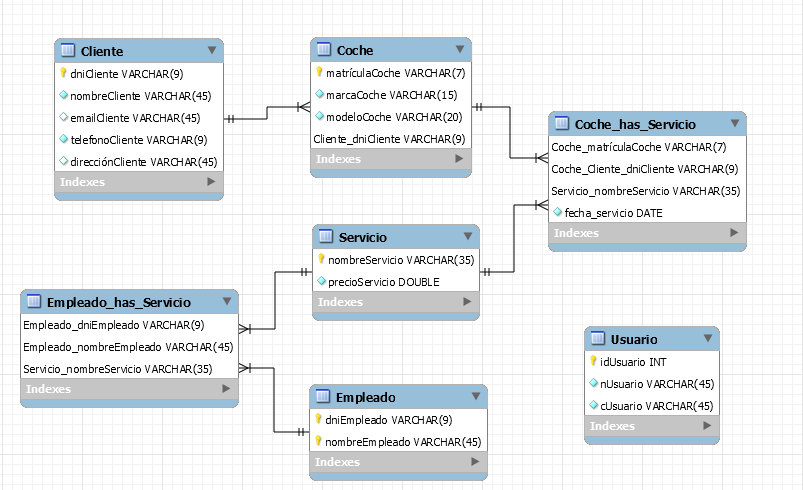
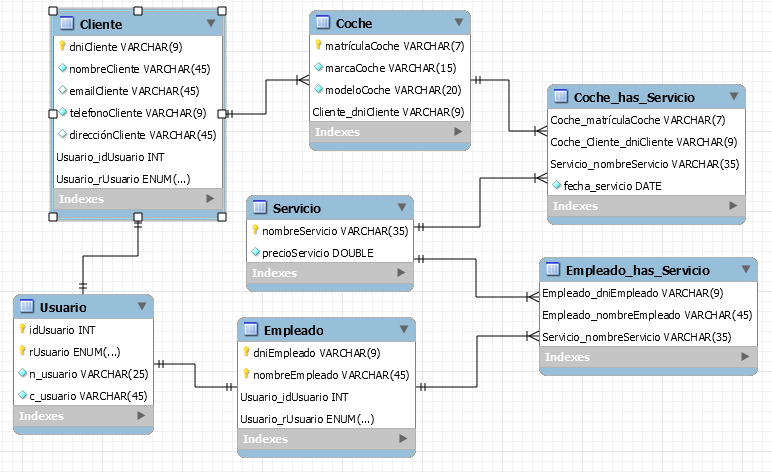
Diagramas de base de datos corrixidos

diff --git a/doc/documentos/3_Deseño.md b/doc/documentos/3_Deseño.md
@@ -19,7 +19,7 @@ Este documento inclúe os diferentes diagramas, esquemas e deseños que axudan a
 ## 3- Diagrama de Base de Datos
 
  - Modelo Entidade/relación
-![Diagrama entidad/relación](/doc/img/Diagrama-BD-ER+usuario.png) 
+![Diagrama entidad/relación](/doc/img/Diagrama-BD-ER.png) 
  - Modelo relacional
 ![Diagrama relacional](/doc/img/Diagrama-BD-relacional.png) 
 
